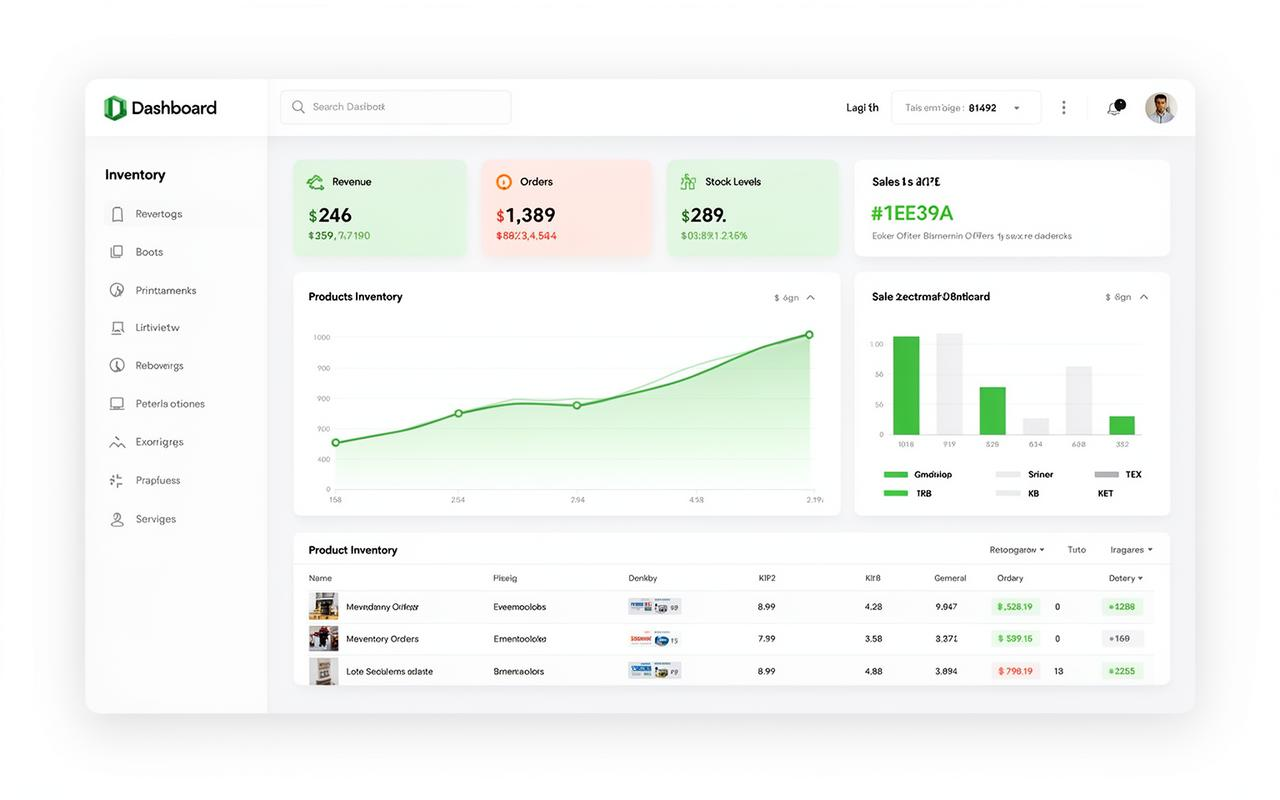
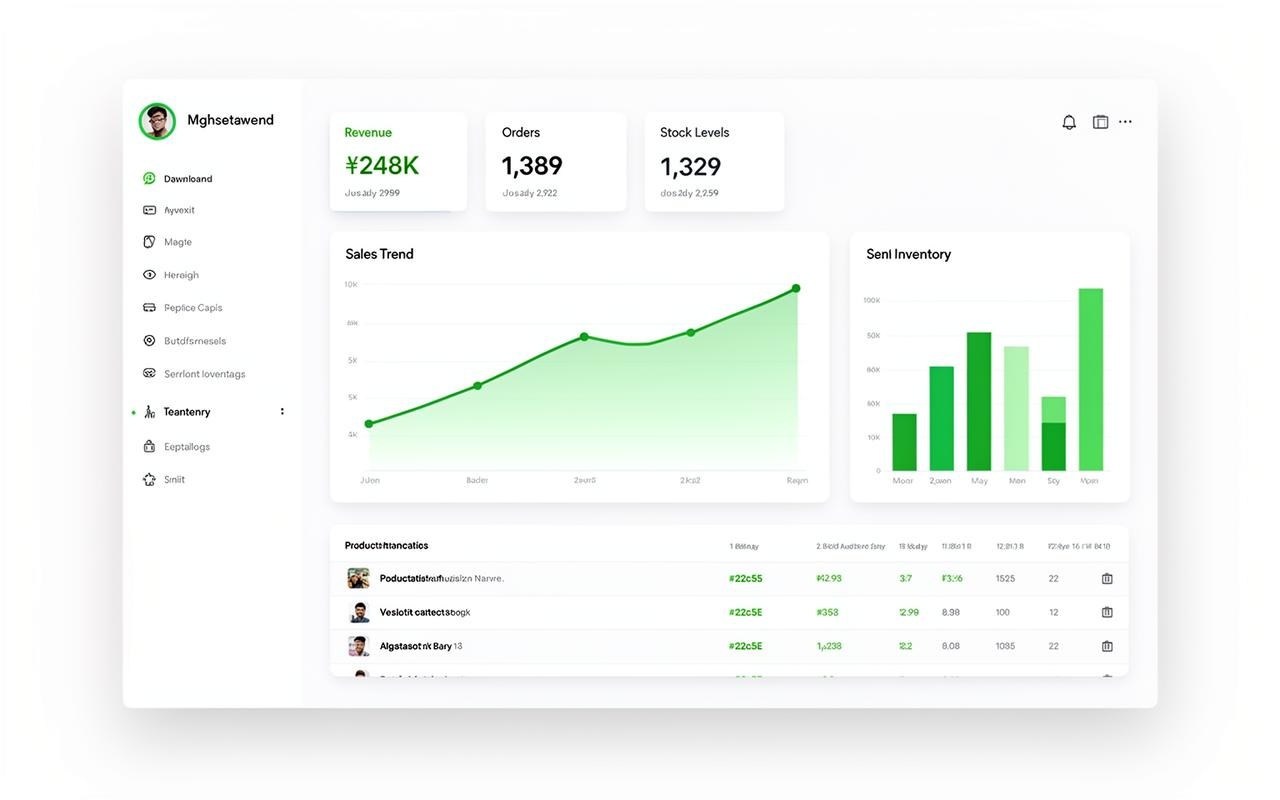
Changes

diff --git a/src/components/RealBusinessSection.tsx b/src/components/RealBusinessSection.tsx
@@ -1,77 +1,173 @@
 import ScrollReveal from './ScrollReveal';
-import lifestyleLady from '@/assets/lifestyle-lady.png';
-import { ArrowRight } from 'lucide-react';
+import mockupDashboard from '@/assets/mockup-dashboard.png';
+import { Zap, Package, BrainCircuit, LayoutDashboard, ArrowRight } from 'lucide-react';
+
+const CARDS = [
+  {
+    icon: Zap,
+    title: 'Fast Checkout',
+    text: 'Complete sales in seconds — even offline.',
+  },
+  {
+    icon: Package,
+    title: 'Smart Inventory',
+    text: 'Real-time tracking across all locations.',
+  },
+  {
+    icon: BrainCircuit,
+    title: 'AI Alerts',
+    text: 'Know before stock runs out or expires.',
+  },
+  {
+    icon: LayoutDashboard,
+    title: 'Multi-Store Control',
+    text: 'Manage every branch from one dashboard.',
+  },
+];
 
 const RealBusinessSection = () => (
-  <section id="real-business" className="py-28 relative z-10 bg-secondary/30">
+  <section id="real-business" className="py-32 relative z-10 overflow-hidden">
+    {/* Subtle background glow */}
+    <div
+      className="absolute inset-0 pointer-events-none"
+      style={{ background: 'radial-gradient(ellipse 80% 60% at 50% 50%, hsl(var(--primary) / 0.04), transparent 70%)' }}
+    />
+
     <div className="container mx-auto px-6">
-      <div className="grid lg:grid-cols-2 gap-12 xl:gap-20 items-center max-w-6xl mx-auto">
-        {/* Left — Image */}
+      {/* Section header */}
+      <ScrollReveal>
+        <div className="text-center mb-16 max-w-2xl mx-auto">
+          <span className="section-badge">Built for Real Business</span>
+          <h2 className="section-heading text-foreground mt-2">
+            Built for Speed.<br />
+            <span className="text-primary">Powered by Intelligence.</span>
+          </h2>
+          <p className="text-muted-foreground text-base mt-3">
+            Everything your store needs — in one clean system.
+          </p>
+        </div>
+      </ScrollReveal>
+
+      {/* 2-column grid */}
+      <div className="grid lg:grid-cols-2 gap-10 xl:gap-16 items-center max-w-6xl mx-auto">
+
+        {/* LEFT — Mockup */}
         <ScrollReveal>
-          <div className="relative flex justify-center lg:justify-start">
-            {/* Glow blob */}
+          <div className="relative flex justify-center">
+            {/* Green glow blob */}
             <div
-              className="absolute -inset-8 rounded-3xl pointer-events-none blur-[60px]"
-              style={{ background: 'hsl(158 80% 50% / 0.07)' }}
+              className="absolute -inset-10 rounded-full pointer-events-none blur-[90px]"
+              style={{ background: 'hsl(var(--primary) / 0.08)' }}
             />
-            <div className="relative rounded-3xl overflow-hidden border border-border shadow-xl shadow-foreground/5 max-w-sm w-full float-gentle">
-              <img
-                src={lifestyleLady}
-                alt="African businesswoman using NEXA StoreOS"
-                className="w-full object-cover"
-              />
-              {/* Floating card overlay */}
-              <div className="absolute bottom-6 left-6 right-6 bg-background/90 backdrop-blur-md rounded-xl p-4 border border-border shadow-lg">
-                <div className="flex items-center gap-3">
-                  <div className="w-8 h-8 rounded-lg flex items-center justify-center text-sm" style={{ background: 'hsl(var(--primary) / 0.1)' }}>
-                    📊
-                  </div>
-                  <div className="flex-1 min-w-0">
-                    <p className="text-xs text-muted-foreground">Today's profit</p>
-                    <p className="text-sm font-semibold text-foreground" style={{ letterSpacing: '-0.01em' }}>₦87,400 — up 22%</p>
-                  </div>
-                  <span className="text-xs font-semibold text-primary">Live ●</span>
+
+            <div className="relative float-gentle w-full max-w-[560px]">
+              {/* Dashboard mockup frame */}
+              <div
+                className="rounded-2xl overflow-hidden border border-border bg-card"
+                style={{ boxShadow: '0 24px 60px -12px hsl(var(--foreground) / 0.08), 0 0 0 1px hsl(var(--border))' }}
+              >
+                <img
+                  src={mockupDashboard}
+                  alt="NEXA StoreOS Analytics Dashboard"
+                  className="w-full block"
+                  loading="lazy"
+                />
+              </div>
+
+              {/* Floating AI insight card */}
+              <div
+                className="absolute -bottom-5 -right-5 rounded-2xl border border-border px-4 py-3 float-slow"
+                style={{
+                  background: 'hsl(var(--background) / 0.95)',
+                  backdropFilter: 'blur(12px)',
+                  boxShadow: '0 8px 32px -8px hsl(var(--foreground) / 0.1)',
+                  minWidth: '180px',
+                }}
+              >
+                <div className="flex items-center gap-2 mb-1">
+                  <span
+                    className="w-6 h-6 rounded-lg flex items-center justify-center flex-shrink-0"
+                    style={{ background: 'hsl(var(--primary) / 0.12)' }}
+                  >
+                    <BrainCircuit className="w-3.5 h-3.5 text-primary" />
+                  </span>
+                  <p className="text-xs font-semibold text-foreground">AI Insight</p>
                 </div>
+                <p className="text-xs text-muted-foreground leading-snug">Paracetamol stock runs out in <strong className="text-foreground">3 days</strong> — reorder now.</p>
+              </div>
+
+              {/* Floating revenue badge */}
+              <div
+                className="absolute -top-4 -left-4 rounded-xl border border-border px-3.5 py-2.5"
+                style={{
+                  background: 'hsl(var(--background) / 0.95)',
+                  backdropFilter: 'blur(12px)',
+                  boxShadow: '0 8px 24px -6px hsl(var(--foreground) / 0.08)',
+                }}
+              >
+                <p className="text-[10px] text-muted-foreground font-medium">Today's Revenue</p>
+                <p className="text-sm font-semibold text-foreground" style={{ letterSpacing: '-0.02em' }}>₦248,500</p>
+                <p className="text-[10px] font-semibold text-primary">↑ +18.4% vs yesterday</p>
               </div>
             </div>
           </div>
         </ScrollReveal>
 
-        {/* Right — Copy */}
-        <ScrollReveal delay={150}>
-          <div>
-            <span className="section-badge">Built for Real Business</span>
-            <h2 className="section-heading text-foreground mb-4">
-              Built for Real<br />
-              <span className="text-primary">Business Owners.</span>
-            </h2>
-            <p className="text-lg text-muted-foreground mb-6 leading-relaxed">
-              Whether you run a pharmacy, supermarket, or retail store — NEXA gives you the clarity and control you've always needed.
-            </p>
+        {/* RIGHT — 2x2 Feature cards */}
+        <div className="grid grid-cols-2 gap-4">
+          {CARDS.map(({ icon: Icon, title, text }, i) => (
+            <ScrollReveal key={title} delay={i * 90}>
+              <div
+                className="group relative rounded-2xl p-5 border border-border hover:border-primary/20 transition-all duration-300 h-full cursor-default"
+                style={{
+                  background: i % 2 === 0
+                    ? 'linear-gradient(135deg, hsl(var(--card)), hsl(var(--primary) / 0.03))'
+                    : 'linear-gradient(135deg, hsl(var(--primary) / 0.03), hsl(var(--card)))',
+                  boxShadow: '0 2px 12px -4px hsl(var(--foreground) / 0.04)',
+                }}
+              >
+                {/* Icon */}
+                <div
+                  className="w-10 h-10 rounded-xl flex items-center justify-center mb-4 transition-transform duration-300 group-hover:scale-110"
+                  style={{ background: 'hsl(var(--primary) / 0.1)' }}
+                >
+                  <Icon className="w-5 h-5 text-primary" strokeWidth={1.5} />
+                </div>
 
-            <ul className="space-y-4 mb-8">
-              {[
-                { icon: '✔', text: 'Fast POS Checkout — sell in under 10 seconds' },
-                { icon: '✔', text: 'Real-Time Inventory Tracking — know exactly what you have' },
-                { icon: '✔', text: 'Multi-Store Control — manage all locations from one screen' },
-                { icon: '✔', text: 'AI Profit Insights — understand your margins automatically' },
-                { icon: '✔', text: 'Smart Reorder Alerts — never run out of your best sellers' },
-                { icon: '✔', text: 'Customer Loyalty System — reward repeat buyers' },
-              ].map((item) => (
-                <li key={item.text} className="flex items-start gap-3 text-sm text-muted-foreground">
-                  <span className="font-bold text-primary text-base flex-shrink-0 mt-0.5">{item.icon}</span>
-                  <span className="leading-relaxed">{item.text}</span>
-                </li>
-              ))}
-            </ul>
+                {/* Title */}
+                <h3 className="text-sm font-semibold text-foreground mb-1.5" style={{ letterSpacing: '-0.01em' }}>
+                  {title}
+                </h3>
 
-            <a href="#how-it-works" className="btn-secondary inline-flex items-center gap-2">
-              See How It Works
-              <ArrowRight className="w-4 h-4" />
-            </a>
-          </div>
-        </ScrollReveal>
+                {/* Text */}
+                <p className="text-xs text-muted-foreground leading-relaxed">
+                  {text}
+                </p>
+
+                {/* Subtle hover glow */}
+                <div
+                  className="absolute inset-0 rounded-2xl opacity-0 group-hover:opacity-100 transition-opacity duration-300 pointer-events-none"
+                  style={{ background: 'radial-gradient(circle at 30% 30%, hsl(var(--primary) / 0.04), transparent 60%)' }}
+                />
+              </div>
+            </ScrollReveal>
+          ))}
+        </div>
       </div>
+
+      {/* Closing CTA */}
+      <ScrollReveal delay={200}>
+        <div className="text-center mt-20">
+          <h3 className="text-xl font-semibold text-foreground mb-4" style={{ letterSpacing: '-0.02em' }}>
+            Ready to simplify your store?
+          </h3>
+          <a href="#cta" className="btn-primary cta-glow inline-flex items-center gap-2">
+            Start Free Trial
+            <ArrowRight className="w-4 h-4" />
+          </a>
+          <p className="mt-3 text-xs text-muted-foreground">No credit card required.</p>
+        </div>
+      </ScrollReveal>
     </div>
   </section>
 );
